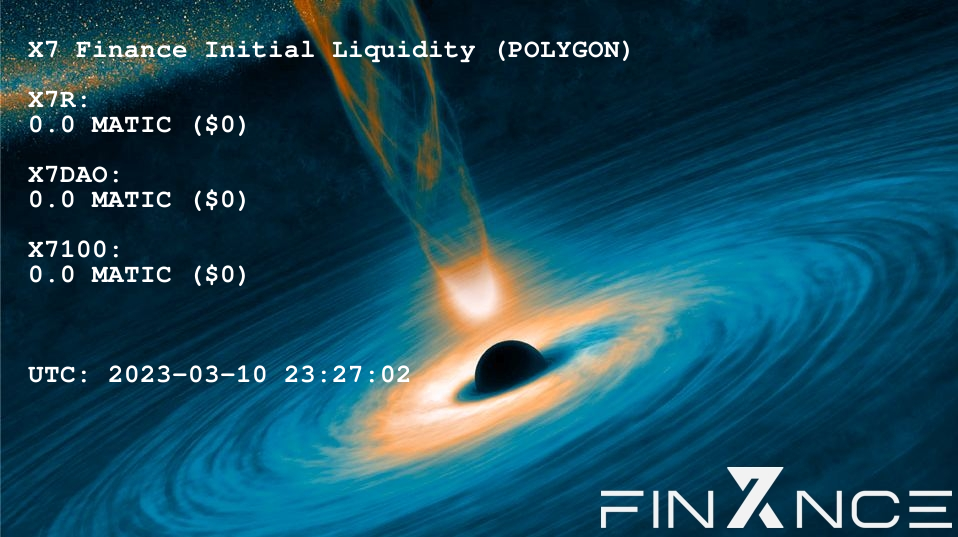
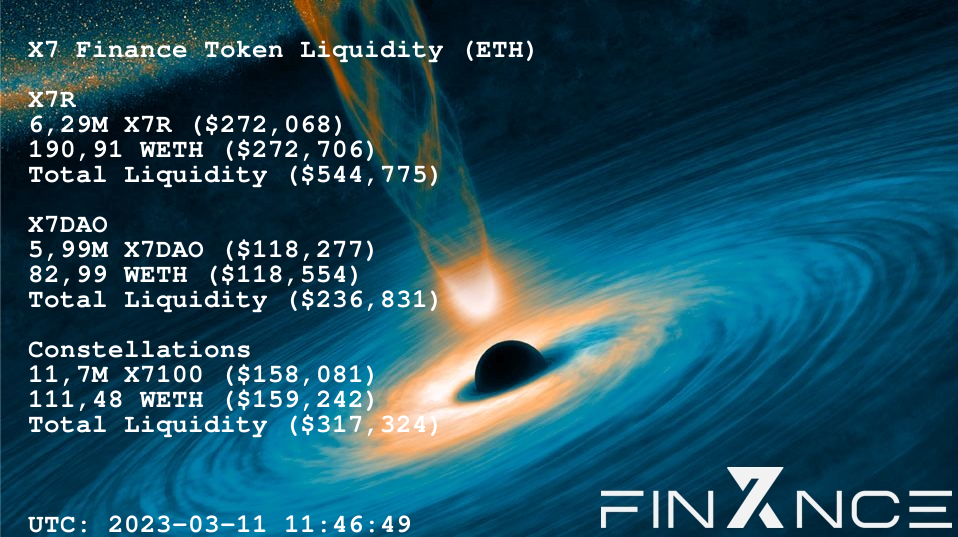
feat: added constellations to /liquidity

diff --git a/main.py b/main.py
@@ -1994,8 +1994,9 @@ async def x7r_command(update: Update, context: ContextTypes.DEFAULT_TYPE):
     quote = f'`"{quoteraw["text"]}"\n\n-{quoteraw["author"]}`'
     chain = " ".join(context.args).lower()
     dollar = chain.startswith("$")
-    cgx7rprice = (keys.cg.get_price(ids='x7r', vs_currencies='usd', include_24hr_change='true',
-                                    include_24hr_vol='true', include_last_updated_at="true"))
+    cg = CoinGeckoAPI()
+    cgx7rprice = (cg.get_price(ids='x7r', vs_currencies='usd', include_24hr_change='true',
+                               include_24hr_vol='true', include_last_updated_at="true"))
     x7rprice = (cgx7rprice["x7r"]["usd"])
     burnurl = items.tokenbalanceapieth + items.x7rca + '&address=' + items.dead + '&tag=latest' + keys.ether
     burnresponse = requests.get(burnurl)
@@ -2114,8 +2115,9 @@ async def x7dao_command(update: Update, context: ContextTypes.DEFAULT_TYPE):
     quote = f'`"{quoteraw["text"]}"\n\n-{quoteraw["author"]}`'
     chain = " ".join(context.args).lower()
     dollar = chain.startswith("$")
-    cgx7daoprice = (keys.cg.get_price(ids='x7dao', vs_currencies='usd', include_24hr_change='true',
-                                      include_24hr_vol='true', include_last_updated_at="true"))
+    cg = CoinGeckoAPI()
+    cgx7daoprice = (cg.get_price(ids='x7dao', vs_currencies='usd', include_24hr_change='true',
+                                 include_24hr_vol='true', include_last_updated_at="true"))
     daoprice = (cgx7daoprice["x7dao"]["usd"])
     uniurl = items.tokenbalanceapieth + items.x7daoca + '&address=' + items.x7daopaireth + '&tag=latest' + keys.ether
     uniresponse = requests.get(uniurl)
@@ -2231,8 +2233,9 @@ async def x7101_command(update: Update, context: ContextTypes.DEFAULT_TYPE):
     quote = f'`"{quoteraw["text"]}"\n\n-{quoteraw["author"]}`'
     chain = " ".join(context.args).lower()
     dollar = chain.startswith("$")
-    cgx7101price = (keys.cg.get_price(ids='x7101', vs_currencies='usd', include_24hr_change='true',
-                                      include_24hr_vol='true', include_last_updated_at="true"))
+    cg = CoinGeckoAPI()
+    cgx7101price = (cg.get_price(ids='x7101', vs_currencies='usd', include_24hr_change='true',
+                                 include_24hr_vol='true', include_last_updated_at="true"))
     x7101price = (cgx7101price["x7101"]["usd"])
     x7101holdersurl = items.ethplorerapi + items.x7101ca + keys.ethplorer
     x7101holdersresponse = requests.get(x7101holdersurl)
@@ -2331,8 +2334,9 @@ async def x7102_command(update: Update, context: ContextTypes.DEFAULT_TYPE):
     quote = f'`"{quoteraw["text"]}"\n\n-{quoteraw["author"]}`'
     chain = " ".join(context.args).lower()
     dollar = chain.startswith("$")
-    cgx7102price = (keys.cg.get_price(ids='x7102', vs_currencies='usd', include_24hr_change='true',
-                                      include_24hr_vol='true', include_last_updated_at="true"))
+    cg = CoinGeckoAPI()
+    cgx7102price = (cg.get_price(ids='x7102', vs_currencies='usd', include_24hr_change='true',
+                                 include_24hr_vol='true', include_last_updated_at="true"))
     x7102price = (cgx7102price["x7102"]["usd"])
     x7102holdersurl = items.ethplorerapi + items.x7102ca + keys.ethplorer
     x7102holdersresponse = requests.get(x7102holdersurl)
@@ -2432,8 +2436,9 @@ async def x7103_command(update: Update, context: ContextTypes.DEFAULT_TYPE):
     quote = f'`"{quoteraw["text"]}"\n\n-{quoteraw["author"]}`'
     chain = " ".join(context.args).lower()
     dollar = chain.startswith("$")
-    cgx7103price = (keys.cg.get_price(ids='x7103', vs_currencies='usd', include_24hr_change='true',
-                                      include_24hr_vol='true', include_last_updated_at="true"))
+    cg = CoinGeckoAPI()
+    cgx7103price = (cg.get_price(ids='x7103', vs_currencies='usd', include_24hr_change='true',
+                                 include_24hr_vol='true', include_last_updated_at="true"))
     x7103price = (cgx7103price["x7103"]["usd"])
     x7103holdersurl = items.ethplorerapi + items.x7103ca + keys.ethplorer
     x7103holdersresponse = requests.get(x7103holdersurl)
@@ -2533,8 +2538,9 @@ async def x7104_command(update: Update, context: ContextTypes.DEFAULT_TYPE):
     quote = f'`"{quoteraw["text"]}"\n\n-{quoteraw["author"]}`'
     chain = " ".join(context.args).lower()
     dollar = chain.startswith("$")
-    cgx7104price = (keys.cg.get_price(ids='x7104', vs_currencies='usd', include_24hr_change='true',
-                                      include_24hr_vol='true', include_last_updated_at="true"))
+    cg = CoinGeckoAPI()
+    cgx7104price = (cg.get_price(ids='x7104', vs_currencies='usd', include_24hr_change='true',
+                                 include_24hr_vol='true', include_last_updated_at="true"))
     x7104price = (cgx7104price["x7104"]["usd"])
     x7104holdersurl = items.ethplorerapi + items.x7104ca + keys.ethplorer
     x7104holdersresponse = requests.get(x7104holdersurl)
@@ -2634,8 +2640,9 @@ async def x7105_command(update: Update, context: ContextTypes.DEFAULT_TYPE):
     quote = f'`"{quoteraw["text"]}"\n\n-{quoteraw["author"]}`'
     chain = " ".join(context.args).lower()
     dollar = chain.startswith("$")
-    cgx7105price = (keys.cg.get_price(ids='x7105', vs_currencies='usd', include_24hr_change='true',
-                                      include_24hr_vol='true', include_last_updated_at="true"))
+    cg = CoinGeckoAPI()
+    cgx7105price = (cg.get_price(ids='x7105', vs_currencies='usd', include_24hr_change='true',
+                                 include_24hr_vol='true', include_last_updated_at="true"))
     x7105price = (cgx7105price["x7105"]["usd"])
     x7105holdersurl = items.ethplorerapi + items.x7105ca + keys.ethplorer
     x7105holdersresponse = requests.get(x7105holdersurl)
@@ -2754,7 +2761,8 @@ async def mcap_command(update: Update, context: ContextTypes.DEFAULT_TYPE):
     quotedata = quoteresponse.json()
     quoteraw = (random.choice(quotedata))
     quote = f'`"{quoteraw["text"]}"\n\n-{quoteraw["author"]}`'
-    cgprice = (keys.cg.get_price(ids='x7r,x7dao,x7101,x7102,x7103,x7104,x7105', vs_currencies='usd'))
+    cg = CoinGeckoAPI()
+    cgprice = (cg.get_price(ids='x7r,x7dao,x7101,x7102,x7103,x7104,x7105', vs_currencies='usd'))
     burnurl = items.tokenbalanceapieth + items.x7rca + '&address=' + items.dead + '&tag=latest' + keys.ether
     burnresponse = requests.get(burnurl)
     burndata = burnresponse.json()
@@ -2818,10 +2826,11 @@ async def price_command(update: Update, context: ContextTypes.DEFAULT_TYPE):
     token = tokenresponse.json()
     tokenid = token["coins"][0]["api_symbol"]
     symbol = token["coins"][0]["symbol"]
-    tokenprice = (keys.cg.get_price(ids=tokenid, vs_currencies='usd', include_24hr_change='true',
-                                    include_24hr_vol='true', include_market_cap="true"))
-    cgtogetherprice = (keys.cg.get_price(ids='x7r,x7dao', vs_currencies='usd', include_24hr_change='true',
-                                         include_24hr_vol='true'))
+    cg = CoinGeckoAPI()
+    tokenprice = (cg.get_price(ids=tokenid, vs_currencies='usd', include_24hr_change='true',
+                               include_24hr_vol='true', include_market_cap="true"))
+    cgtogetherprice = (cg.get_price(ids='x7r,x7dao', vs_currencies='usd', include_24hr_change='true',
+                                    include_24hr_vol='true'))
     if search == "":
         img = Image.open((random.choice(items.blackhole)))
         i1 = ImageDraw.Draw(img)
@@ -2888,8 +2897,9 @@ async def constellations_command(update: Update, context: ContextTypes.DEFAULT_T
     quotedata = quoteresponse.json()
     quoteraw = (random.choice(quotedata))
     quote = f'`"{quoteraw["text"]}"\n\n-{quoteraw["author"]}`'
-    cgconstellationprice = (keys.cg.get_price(ids='x7101,x7102,x7103,x7104,x7105', vs_currencies='usd',
-                                              include_24hr_change='true'))
+    cg = CoinGeckoAPI()
+    cgconstellationprice = (cg.get_price(ids='x7101,x7102,x7103,x7104,x7105', vs_currencies='usd',
+                                         include_24hr_change='true'))
     x7101mc = cgconstellationprice["x7101"]["usd"] * items.supply
     x7102mc = cgconstellationprice["x7102"]["usd"] * items.supply
     x7103mc = cgconstellationprice["x7103"]["usd"] * items.supply
@@ -2955,8 +2965,9 @@ async def treasury_command(update: Update, context: ContextTypes.DEFAULT_TYPE):
     quotedata = quoteresponse.json()
     quoteraw = (random.choice(quotedata))
     quote = f'`"{quoteraw["text"]}"\n\n-{quoteraw["author"]}`'
-    cgx7rprice = (keys.cg.get_price(ids='x7r', vs_currencies='usd', include_24hr_change='true',
-                                    include_24hr_vol='true', include_last_updated_at="true"))
+    cg = CoinGeckoAPI()
+    cgx7rprice = (cg.get_price(ids='x7r', vs_currencies='usd', include_24hr_change='true',
+                               include_24hr_vol='true', include_last_updated_at="true"))
     x7rprice = (cgx7rprice["x7r"]["usd"])
     treasuryurl = \
         items.ethbalanceapieth + items.devmultieth + ',' + items.commultieth + ',' + items.pioneerca + '&tag=latest' \
@@ -3142,28 +3153,83 @@ async def liquidity_command(update: Update, context: ContextTypes.DEFAULT_TYPE):
     quoteraw = (random.choice(quotedata))
     quote = f'`"{quoteraw["text"]}"\n\n-{quoteraw["author"]}`'
     if chain == "" or chain == "eth":
-        cgprice = (keys.cg.get_price(ids='x7r,x7dao', vs_currencies='usd', include_24hr_change='true',
-                                     include_24hr_vol='true', include_last_updated_at="true"))
+        cg = CoinGeckoAPI()
+        cgprice = (cg.get_price(ids='x7r,x7dao,x7101,x7102,x7103,x7104,x7105',
+                                vs_currencies='usd', include_24hr_change='true',
+                                include_24hr_vol='true', include_last_updated_at="true"))
         x7rprice = (cgprice["x7r"]["usd"])
+        x7daoprice = (cgprice["x7dao"]["usd"])
+        x7101price = (cgprice["x7101"]["usd"])
+        x7102price = (cgprice["x7102"]["usd"])
+        x7103price = (cgprice["x7103"]["usd"])
+        x7104price = (cgprice["x7104"]["usd"])
+        x7105price = (cgprice["x7105"]["usd"])
         # noinspection PyTypeChecker
         x7rresult = evm_api.defi.get_pair_reserves(api_key=keys.moralis,
                                                    params={"chain": "eth", "pair_address": items.x7rpaireth})
         # noinspection PyTypeChecker
         x7daoresult = evm_api.defi.get_pair_reserves(api_key=keys.moralis,
                                                      params={"chain": "eth", "pair_address": items.x7daopaireth})
-        x7rtoken = int(x7rresult["reserve0"])
-        x7rweth = int(x7rresult["reserve1"])
+        # noinspection PyTypeChecker
+        x7101result = evm_api.defi.get_pair_reserves(api_key=keys.moralis,
+                                                     params={"chain": "eth", "pair_address": items.x7101paireth})
+        # noinspection PyTypeChecker
+        x7102result = evm_api.defi.get_pair_reserves(api_key=keys.moralis,
+                                                     params={"chain": "eth", "pair_address": items.x7102paireth})
+        # noinspection PyTypeChecker
+        x7103result = evm_api.defi.get_pair_reserves(api_key=keys.moralis,
+                                                     params={"chain": "eth", "pair_address": items.x7103paireth})
+        # noinspection PyTypeChecker
+        x7104result = evm_api.defi.get_pair_reserves(api_key=keys.moralis,
+                                                     params={"chain": "eth", "pair_address": items.x7104paireth})
+        # noinspection PyTypeChecker
+        x7105result = evm_api.defi.get_pair_reserves(api_key=keys.moralis,
+                                                     params={"chain": "eth", "pair_address": items.x7105paireth})
         ethurl = items.ethpriceapi + keys.ether
         ethresponse = requests.get(ethurl)
         ethdata = ethresponse.json()
         ethvalue = float(ethdata["result"]["ethusd"])
+
+        x7rtoken = int(x7rresult["reserve0"])
+        x7rweth = int(x7rresult["reserve1"])
         x7rwethdollar = float(x7rweth) * float(ethvalue) / 10 ** 18
         x7rtokendollar = float(x7rprice) * float(x7rtoken) / 10 ** 18
-        x7daoprice = (cgprice["x7dao"]["usd"])
+
         x7daotoken = int(x7daoresult["reserve0"])
         x7daoweth = int(x7daoresult["reserve1"])
         x7daowethdollar = float(x7daoweth) * float(ethvalue) / 10 ** 18
         x7daotokendollar = float(x7daoprice) * float(x7daotoken) / 10 ** 18
+
+        x7101token = int(x7101result["reserve0"])
+        x7101weth = int(x7101result["reserve1"])
+        x7101wethdollar = float(x7101weth) * float(ethvalue) / 10 ** 18
+        x7101tokendollar = float(x7101price) * float(x7101token) / 10 ** 18
+
+        x7102token = int(x7102result["reserve0"])
+        x7102weth = int(x7102result["reserve1"])
+        x7102wethdollar = float(x7102weth) * float(ethvalue) / 10 ** 18
+        x7102tokendollar = float(x7102price) * float(x7102token) / 10 ** 18
+
+        x7103token = int(x7103result["reserve0"])
+        x7103weth = int(x7103result["reserve1"])
+        x7103wethdollar = float(x7103weth) * float(ethvalue) / 10 ** 18
+        x7103tokendollar = float(x7103price) * float(x7103token) / 10 ** 18
+
+        x7104token = int(x7104result["reserve0"])
+        x7104weth = int(x7104result["reserve1"])
+        x7104wethdollar = float(x7104weth) * float(ethvalue) / 10 ** 18
+        x7104tokendollar = float(x7104price) * float(x7104token) / 10 ** 18
+
+        x7105token = int(x7105result["reserve0"])
+        x7105weth = int(x7105result["reserve1"])
+        x7105wethdollar = float(x7105weth) * float(ethvalue) / 10 ** 18
+        x7105tokendollar = float(x7105price) * float(x7105token) / 10 ** 18
+
+        constellationstoken = x7101token+x7102token+x7103token+x7104token+x7105token
+        constellationsweth = x7101weth+x7102weth+x7103weth+x7104weth+x7105weth
+        constellationswethdollar = x7101wethdollar+x7102wethdollar+x7103wethdollar+x7104wethdollar+x7105wethdollar
+        constellationstokendollar = x7101tokendollar+x7102tokendollar+x7103tokendollar+x7104tokendollar+x7105tokendollar
+
         img = Image.open((random.choice(items.blackhole)))
         i1 = ImageDraw.Draw(img)
         myfont = ImageFont.truetype(r'media\FreeMonoBold.ttf', 26)
@@ -3175,9 +3241,15 @@ async def liquidity_command(update: Update, context: ContextTypes.DEFAULT_TYPE):
                 f'Total Liquidity (${"{:0,.0f}".format(x7rwethdollar + x7rtokendollar)})\n\n'
                 f'X7DAO\n'
                 f'{"{:0,.0f}".format(x7daotoken)[:4]}M X7DAO (${"{:0,.0f}".format(x7daotokendollar)})\n'
-                f'{"{:0,.0f}".format(x7daoweth)[:6]} WETH (${"{:0,.0f}".format(x7daowethdollar)})\n'
-                f'Total Liquidity (${"{:0,.0f}".format(x7daowethdollar + x7daotokendollar)})\n\n\n\n'
-                f'UTC: {datetime.now().strftime("%Y-%m-%d %H:%M:%S")}',
+                f'{"{:0,.0f}".format(x7daoweth)[:5]} WETH (${"{:0,.0f}".format(x7daowethdollar)})\n'
+                f'Total Liquidity (${"{:0,.0f}".format(x7daowethdollar + x7daotokendollar)})\n\n'
+                f'Constellations\n'
+                f'{"{:0,.0f}".format(constellationstoken)[:4]}M X7100 '
+                f'(${"{:0,.0f}".format(constellationstokendollar)})\n'
+                f'{"{:0,.0f}".format(constellationsweth)[:6]} WETH '
+                f'(${"{:0,.0f}".format(constellationswethdollar)})\n'
+                f'Total Liquidity (${"{:0,.0f}".format(constellationswethdollar+constellationstokendollar)})\n\n\n'
+                f'\nUTC: {datetime.now().strftime("%Y-%m-%d %H:%M:%S")}',
                 font=myfont, fill=(255, 255, 255))
         img.save(r"media\blackhole.png")
         await update.message.reply_photo(
@@ -3191,8 +3263,14 @@ async def liquidity_command(update: Update, context: ContextTypes.DEFAULT_TYPE):
                     f'Total Liquidity (${"{:0,.0f}".format(x7rwethdollar+x7rtokendollar)})\n\n'
                     f'*X7DAO*\n'
                     f'{"{:0,.0f}".format(x7daotoken)[:4]}M X7DAO (${"{:0,.0f}".format(x7daotokendollar)})\n'
-                    f'{"{:0,.0f}".format(x7daoweth)[:6]} WETH (${"{:0,.0f}".format(x7daowethdollar)})\n'
+                    f'{"{:0,.0f}".format(x7daoweth)[:5]} WETH (${"{:0,.0f}".format(x7daowethdollar)})\n'
                     f'Total Liquidity (${"{:0,.0f}".format(x7daowethdollar+x7daotokendollar)})\n\n'
+                    f'*Constellations*\n'
+                    f'{"{:0,.0f}".format(constellationstoken)[:4]}M X7100 '
+                    f'(${"{:0,.0f}".format(constellationstokendollar)})\n'
+                    f'{"{:0,.0f}".format(constellationsweth)[:6]} WETH '
+                    f'(${"{:0,.0f}".format(constellationswethdollar)})\n'
+                    f'Total Liquidity (${"{:0,.0f}".format(constellationswethdollar+constellationstokendollar)})\n\n'
                     f'{quote}', parse_mode='Markdown')
     if chain == "bsc" or chain == "bnb":
         liqurl = \
